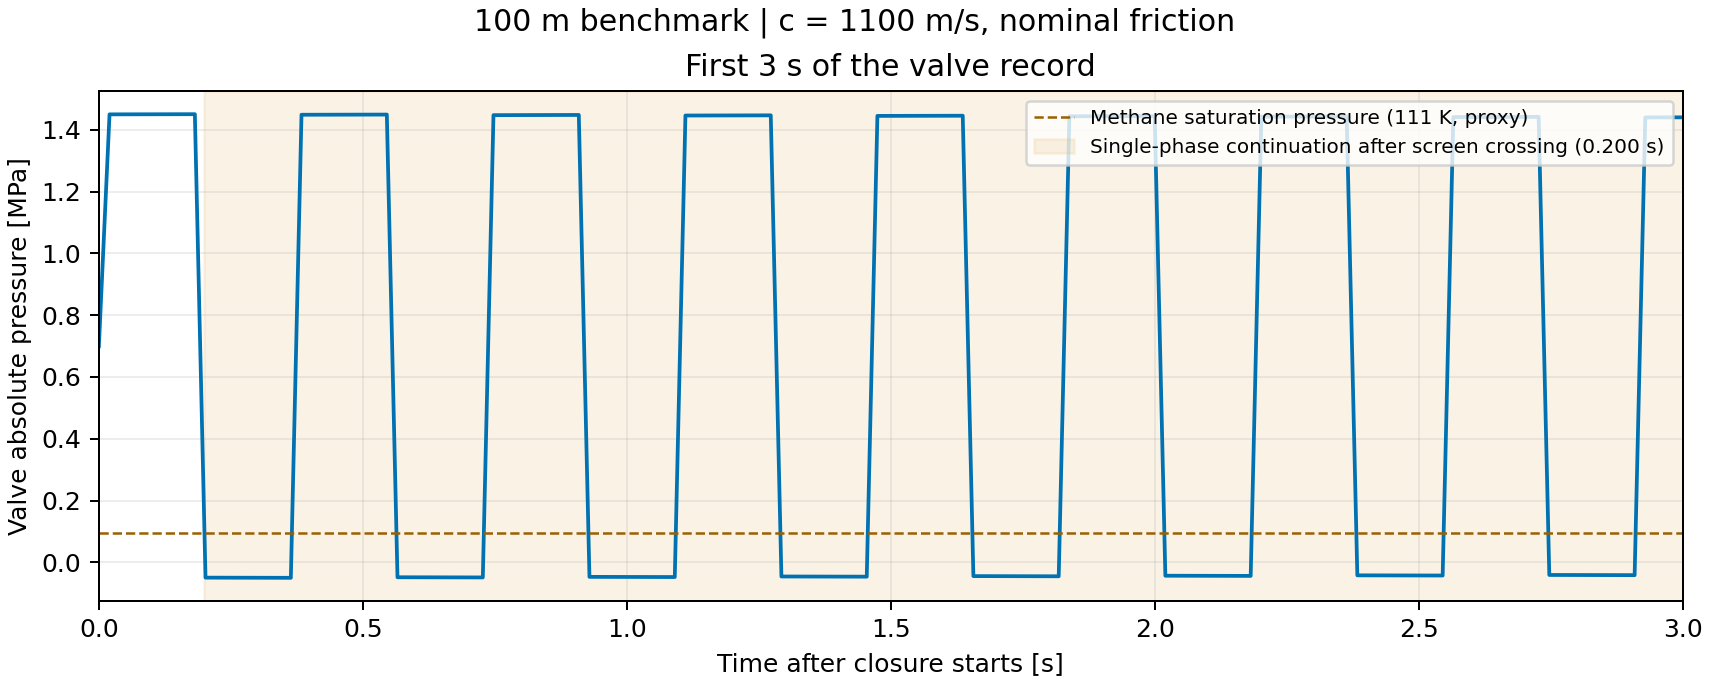
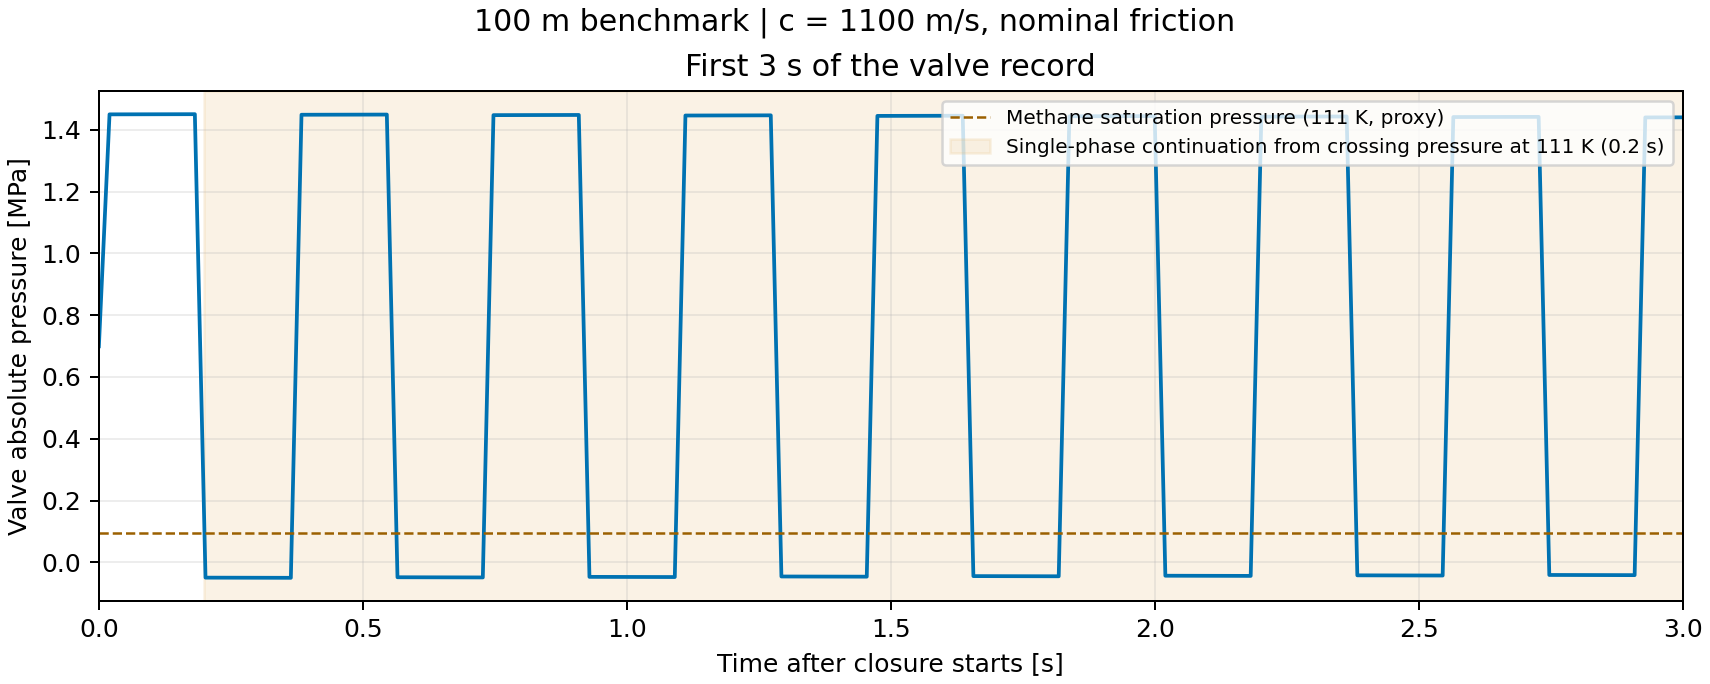
Clarify the phase screen legend on the three-second valve trace

Changed region(s): [[0.5269, 0.1228, 0.9608, 0.2456]]

diff --git a/stage1_evidence.py b/stage1_evidence.py
@@ -82,13 +82,14 @@ def pressure_figures(case, run, output):
     save(fig, output, "valve_reflection_zoom.png")
 
 
-def plot_valve_trace(axis, time, pressure, case, crossing):
+def plot_valve_trace(axis, time, pressure, case, crossing, *,
+                     crossing_label="Single-phase continuation after screen crossing ({crossing:.3f} s)"):
     keep = time <= 3
     axis.plot(time[keep], pressure[keep] / 1e6, color=COLORS["bulk"])
     axis.axhline(case.phase_limit / 1e6, color="#9b6000", ls="--", lw=1, label=PHASE_LABEL)
     if crossing is not None and crossing < 3:
         axis.axvspan(crossing, 3, color="#e6b96f", alpha=.18,
-                    label=f"Single-phase continuation after screen crossing ({crossing:.3f} s)")
+                    label=crossing_label.format(crossing=crossing))
     axis.set(xlim=(0, 3), xlabel="Time after closure starts [s]", ylabel="Valve absolute pressure [MPa]",
              title="First 3 s of the valve record")
     axis.legend(fontsize=8, loc="upper right")
@@ -126,7 +127,8 @@ def valve_frequency(case, item, source, output):
     if mode == "bulk":
         crossing = long_record["first_phase_crossing_s"]
         fig, trace = plt.subplots(figsize=(9.5, 3.8), layout="constrained")
-        plot_valve_trace(trace, time, pressure, case, crossing)
+        plot_valve_trace(trace, time, pressure, case, crossing,
+                         crossing_label="Single-phase continuation from crossing pressure at 111 K ({crossing:g} s)")
         fig.suptitle("100 m benchmark | c = 1100 m/s, nominal friction")
         save(fig, output, "valve_pressure_3s.png")
 
